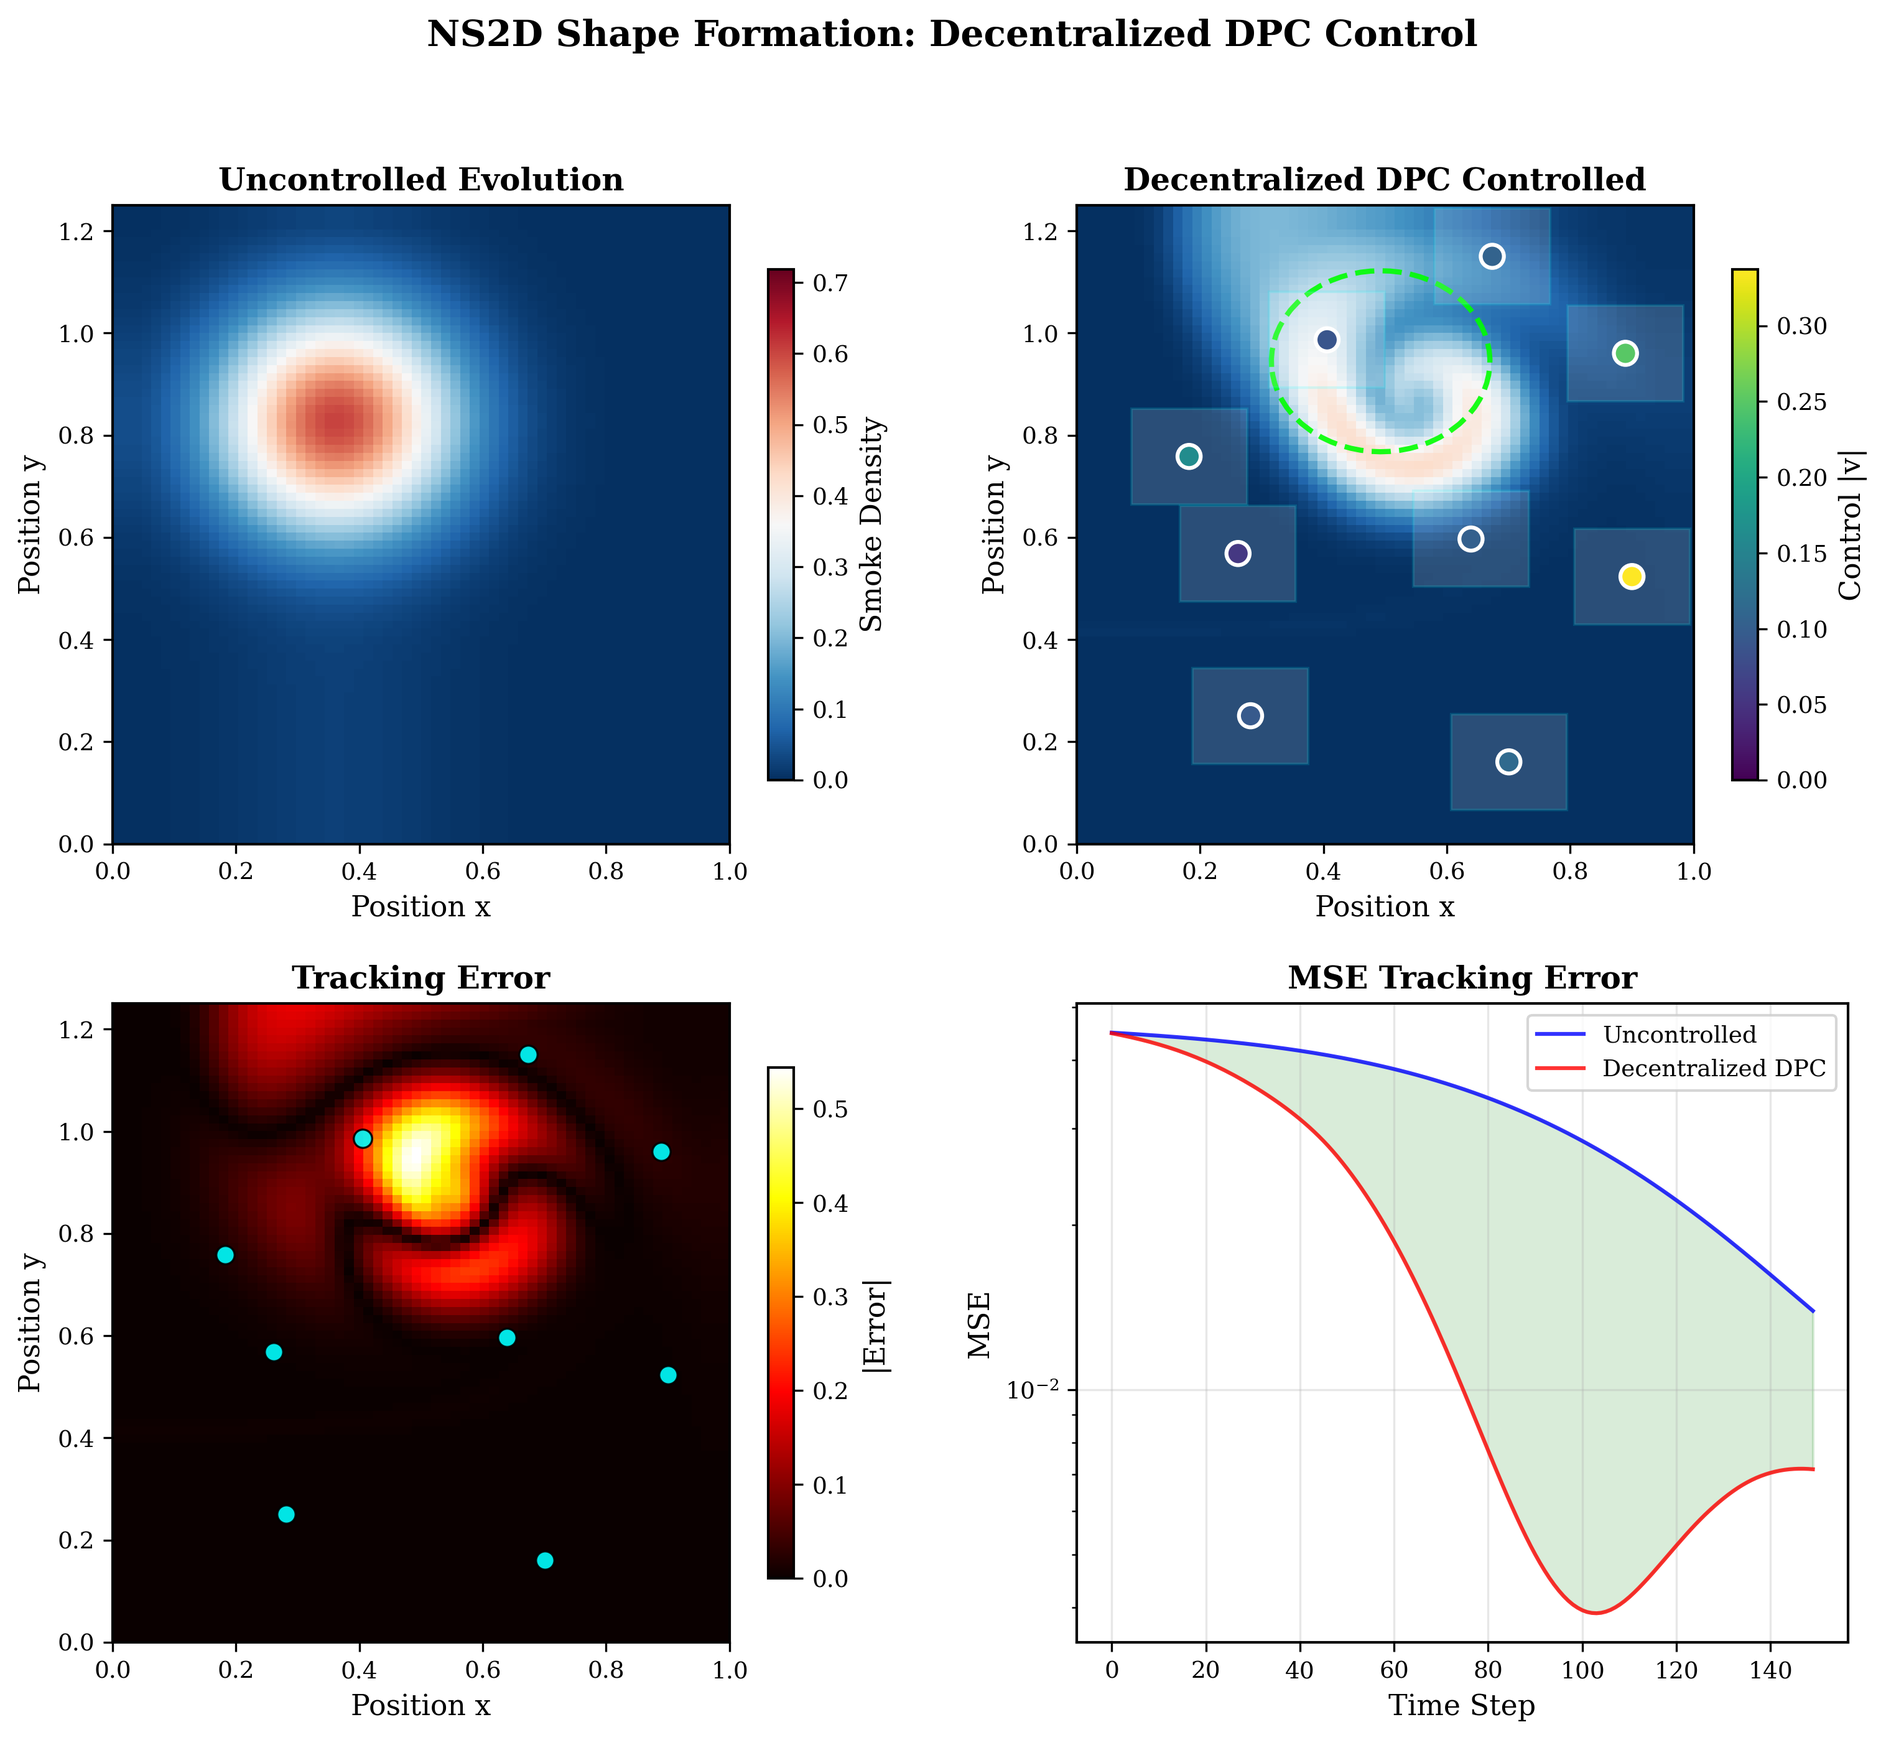
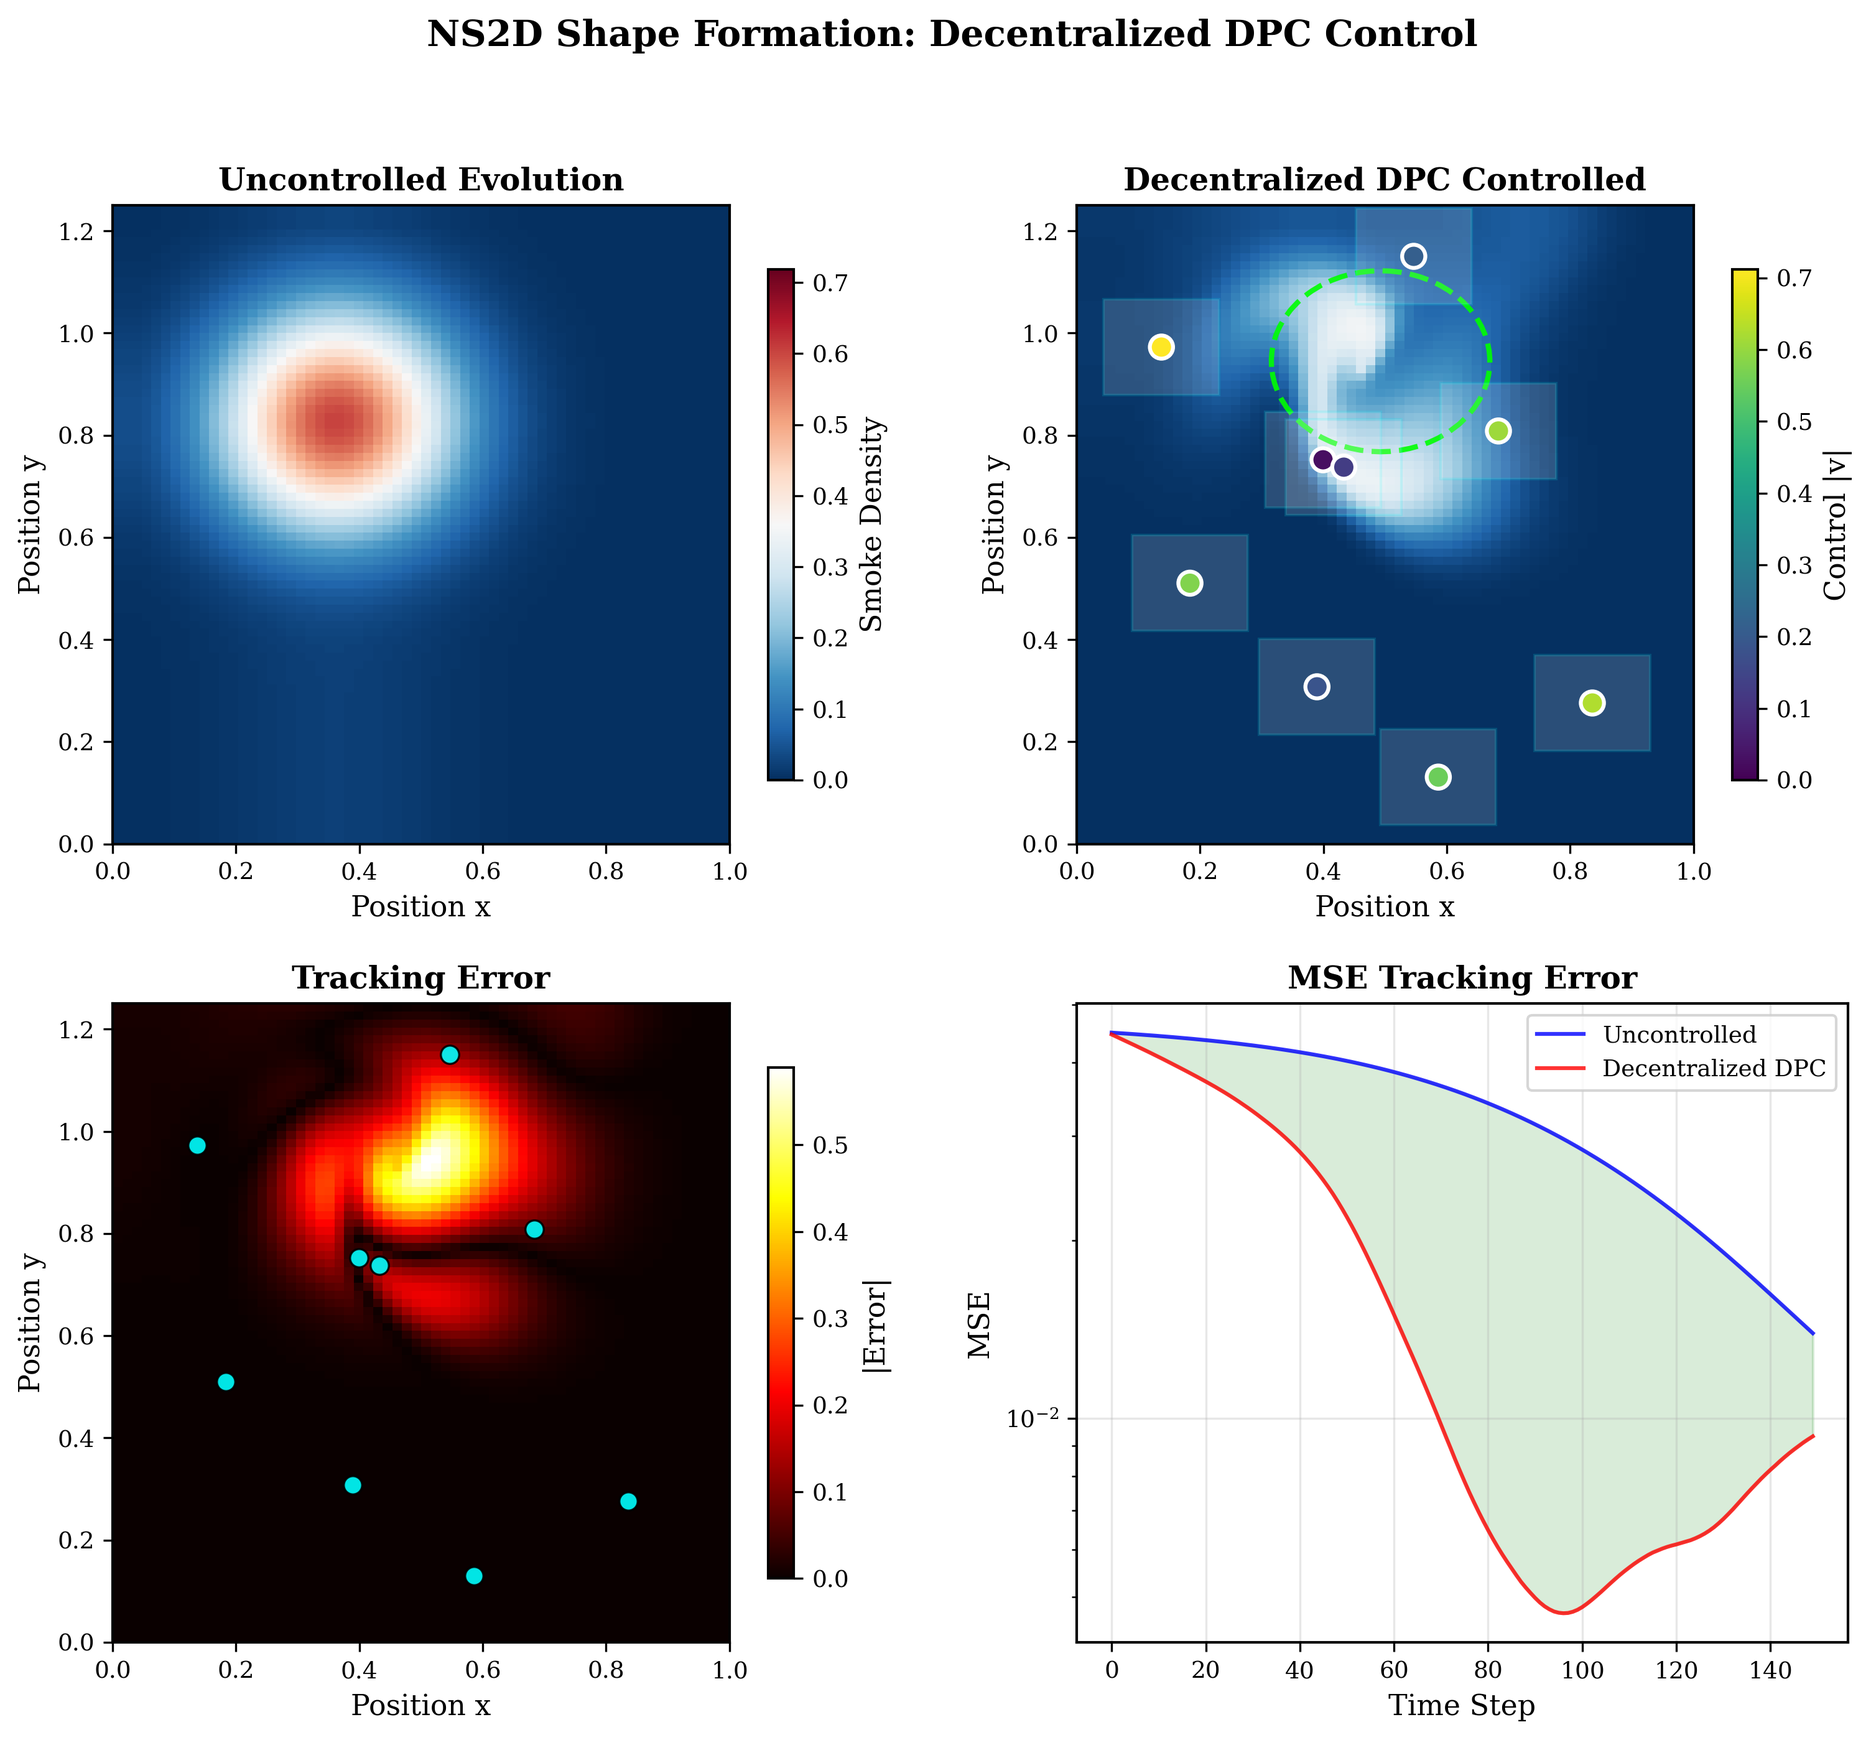
Update ns2d decentralized: dynamics, training, visualization

diff --git a/examples/ns2d/decentralized/dynamics.py b/examples/ns2d/decentralized/dynamics.py
@@ -325,7 +325,7 @@ def unroll_with_full_loss(
     push_max: float = 0.5,    # Max push velocity
     R_safe: float = 0.12,
     domain_margin: float = 0.1
-) -> Tuple[jnp.ndarray, jnp.ndarray, float, float, float, float, float]:
+) -> Tuple[jnp.ndarray, jnp.ndarray, float, float, float, float, float, float]:
     """
     Controlled rollout with fan-only velocity control.
     
@@ -333,7 +333,7 @@ def unroll_with_full_loss(
     - push_velocity: direction to push smoke AND slow agent drift
     
     Returns:
-        smoke_final, xi_final, l_track, l_effort, l_bound, l_coll, l_accel
+        smoke_final, xi_final, l_hold, l_coll, l_bound, l_smooth, l_effort, l_mass
     """
     
     def step_fn(carry, _):
@@ -368,122 +368,51 @@ def unroll_with_full_loss(
     smoke_traj, xi_traj, v_traj = trajectories
     
     # =========================================================================
-    # NEW OBJECTIVE DESIGN: Transport + Hold + Find + Regularization
-    # =========================================================================
-    
-    # Helper: Compute centroid of a field
-    def compute_centroid(field):
-        Nx_f, Ny_f = field.shape
-        x_coords = jnp.linspace(0, 1, Nx_f)
-        y_coords = jnp.linspace(0, 1.25, Ny_f)
-        X, Y = jnp.meshgrid(x_coords, y_coords, indexing='ij')
-        total_mass = jnp.sum(field) + 1e-8
-        cx = jnp.sum(field * X) / total_mass
-        cy = jnp.sum(field * Y) / total_mass
-        return jnp.array([cx, cy])
-    
-    # Target centroid (fixed)
-    target_centroid = compute_centroid(rho_target)
-    
-    # =========================================================================
-    # 1. TRANSPORT LOSS: Push smoke centroid → target centroid
-    # =========================================================================
-    def transport_loss_at_t(smoke_t):
-        smoke_centroid = compute_centroid(smoke_t)
-        return jnp.sum((smoke_centroid - target_centroid) ** 2)
-    
-    transport_losses = jax.vmap(transport_loss_at_t)(smoke_traj)
-    l_transport = jnp.mean(transport_losses)
-    
-    # =========================================================================
-    # 2. TIME-WEIGHTED HOLD LOSS using WASSERSTEIN DISTANCE
+    # HOLD LOSS: Time-weighted Wasserstein distance to target
+    # Exponentially increasing weights: later timesteps matter MORE (hold behavior)
     # =========================================================================
     def hold_loss_at_t(smoke_t):
         return compute_wasserstein_loss(smoke_t, rho_target)
     
     hold_losses = jax.vmap(hold_loss_at_t)(smoke_traj)
     
-    # Time weights: [0.5, 0.6, ..., 1.5, 2.0, 2.5] - increasing over time
-    # time_weights = 0.5 + 2.0 * jnp.linspace(0, 1, t_steps)  # Linear increase
-    # time_weights = 1.0
+    # Time weights: (t/T)^2 - quadratic increase, emphasizing later timesteps
+    # At t=0: weight=0, at t=T: weight=1 -> forces holding at end
+    # t_normalized = jnp.linspace(0, 1, t_steps)
+    # time_weights = 0.5 + 1.5 * (t_normalized ** 2)  # Range: 0.5 to 2.0
     time_weights = jnp.ones(t_steps)
     l_hold = jnp.sum(hold_losses * time_weights) / jnp.sum(time_weights)
     
-    # Also add strong terminal penalty (Wasserstein)
+    # Strong terminal penalty (Wasserstein) - smoke MUST stay at target
     l_hold_terminal = compute_wasserstein_loss(smoke_final, rho_target)
-    l_hold = l_hold + 3.0 * l_hold_terminal  # Extra emphasis on final state
-    
-    # =========================================================================
-    # 3. FIND LOSS: Agents should approach smoke to push it
-    # =========================================================================
-    def find_loss_at_t(smoke_t, xi_t):
-        smoke_centroid = compute_centroid(smoke_t)
-        dist_to_smoke = jnp.sqrt(jnp.sum((xi_t - smoke_centroid) ** 2, axis=-1) + 1e-8)
-        return jnp.mean(jnp.minimum(dist_to_smoke, 0.4))
-    
-    find_losses = jax.vmap(find_loss_at_t)(smoke_traj, xi_traj)
-    l_find = jnp.mean(find_losses)
-    
-    # =========================================================================
-    # 4. SURROUND LOSS: Agents should be near TARGET to form containment ring
-    # =========================================================================
-    def surround_loss_at_t(xi_t):
-        # Distance from each agent to TARGET centroid (not smoke!)
-        dist_to_target = jnp.sqrt(jnp.sum((xi_t - target_centroid) ** 2, axis=-1) + 1e-8)
-        # Ideal distance: ~0.2-0.3 (ring around target, not on top of it)
-        ideal_dist = 0.25
-        return jnp.mean(jnp.abs(dist_to_target - ideal_dist))  # Encourage ring formation
-    
-    surround_losses = jax.vmap(surround_loss_at_t)(xi_traj)
-    l_surround = jnp.mean(surround_losses)
-    
-    # =========================================================================
-    # 5. BRAKE LOSS: Slow down when smoke is at target (increased threshold)
-    # =========================================================================
-    def brake_loss_at_t(smoke_t, v_t):
-        smoke_centroid = compute_centroid(smoke_t)
-        smoke_target_dist = jnp.sqrt(jnp.sum((smoke_centroid - target_centroid) ** 2) + 1e-8)
-        
-        # Brake factor: 1.0 when at target, 0.0 when far
-        # INCREASED threshold from 0.15 to 0.3
-        at_target = jnp.clip(1.0 - smoke_target_dist / 0.3, 0.0, 1.0)
-        
-        # Penalize velocity when at target
-        velocity_mag = jnp.mean(jnp.sum(v_t ** 2, axis=-1))
-        return at_target * velocity_mag
-    
-    brake_losses = jax.vmap(brake_loss_at_t)(smoke_traj, v_traj)
-    l_brake = jnp.mean(brake_losses)
+    l_hold = l_hold + 2.0 * l_hold_terminal  #2 #8 # Strong emphasis on final state
     
     # =========================================================================
     # REGULARIZATION LOSSES
     # =========================================================================
     
-    # 6. COLLISION: Avoid other agents (SOFT EXPONENTIAL - always has gradient)
+    # COLLISION: Avoid other agents (soft exponential penalty)
     diff = xi_traj[:, :, None, :] - xi_traj[:, None, :, :]
     dists = jnp.sqrt(jnp.sum(diff**2, axis=-1) + 1e-8)
     mask = jnp.eye(n_agents)[None, :, :]
     dists_masked = dists + mask * 10.0  # Ignore self-distance
-    
-    # Exponential decay: strong when close, weak when far
-    # exp(-dist/scale) where scale controls the range of influence
-    scale = R_safe  # Use R_safe as scale parameter
+    scale = R_safe
     l_coll = jnp.mean(jnp.exp(-dists_masked / scale))
     
-    # 7. BOUNDARY: Stay in domain
+    # BOUNDARY: Stay in domain
     x_penalty = jnp.maximum(0, domain_margin - xi_traj[:, :, 0])**2 + \
                 jnp.maximum(0, xi_traj[:, :, 0] - (1.0 - domain_margin))**2
     y_penalty = jnp.maximum(0, domain_margin - xi_traj[:, :, 1])**2 + \
                 jnp.maximum(0, xi_traj[:, :, 1] - (1.25 - domain_margin))**2
     l_bound = jnp.mean(x_penalty + y_penalty)
     
-    # 8. SMOOTH: Velocity smoothness (acceleration penalty)
+    # SMOOTH: Velocity smoothness (acceleration penalty)
     l_smooth = jnp.mean(jnp.sum(jnp.diff(v_traj, axis=0)**2, axis=-1))
     
-    # 9. EFFORT: Control energy
+    # EFFORT: Control energy
     l_effort = jnp.mean(jnp.sum(v_traj ** 2, axis=-1))
     
-    # 10. MASS CONSERVATION: Penalize loss of smoke mass
+    # MASS CONSERVATION: Penalize loss of smoke mass
     initial_mass = jnp.sum(smoke_init)
     def mass_loss_at_t(smoke_t):
         current_mass = jnp.sum(smoke_t)
@@ -492,7 +421,7 @@ def unroll_with_full_loss(
     mass_losses = jax.vmap(mass_loss_at_t)(smoke_traj)
     l_mass = jnp.mean(mass_losses)
     
-    return smoke_final, xi_final, l_transport, l_hold, l_find, l_surround, l_brake, l_coll, l_bound, l_smooth, l_effort, l_mass
+    return smoke_final, xi_final, l_hold, l_coll, l_bound, l_smooth, l_effort, l_mass
 
 
 

diff --git a/examples/ns2d/decentralized/train.py b/examples/ns2d/decentralized/train.py
@@ -48,32 +48,16 @@ SIGMA_PUSH = 0.2      # Wide push influence
 
 # Control limits (fan-only: no injection, just push velocity)
 PUSH_MAX = 0.8        # Max push velocity
-FEATURES = (16, 32)   # CNN feature channels - keep same
+FEATURES = (32, 32, 64)  #(32, 32, 64)# CNN feature channels - keep same
 PATCH_SIZE = 12      
 
-# Loss weights - NEW OBJECTIVE DESIGN
-# W_TRANSPORT = 10.0   #20# PRIMARY: push smoke centroid → target centroid
-# W_HOLD = 50.0         #10# TERMINAL: smoke must stay at target (time-weighted)
-# W_FIND = 10.0         # EXPLORATION: agents approach smoke
-# W_SURROUND = 10.0     #15# Agents form ring around target
-# W_BRAKE = 40.0        # Slow down when at target
-# W_COLL = 1500.0        # Avoid other agents
-# W_BOUND = 20.0        # Stay in domain
-# W_SMOOTH = 0.1        # Velocity smoothness
-# W_EFFORT = 0.001      # Control energy
-# W_MASS = 80.0         #50# NEW: Preserve smoke mass
-# R_SAFE = 0.15         # Safe radius for collision
-
-W_TRANSPORT = 0.0   #20# PRIMARY: push smoke centroid → target centroid
-W_HOLD = 10.0 #0.3        #10# TERMINAL: smoke must stay at target (time-weighted)
-W_FIND = 0.0         # EXPLORATION: agents approach smoke
-W_SURROUND = 0.0     #15# Agents form ring around target
-W_BRAKE = 0.0        # Slow down when at target
-W_COLL = 70.0        # Avoid other agents
+# Loss weights
+W_HOLD = 3.0      #3   # TERMINAL: smoke must stay at target (time-weighted Wasserstein)
+W_COLL = 10.0         # Avoid other agents
 W_BOUND = 10.0        # Stay in domain
 W_SMOOTH = 0.1        # Velocity smoothness
 W_EFFORT = 0.001      # Control energy
-W_MASS = 30.0         #50# NEW: Preserve smoke mass
+W_MASS = 5.0        #5 # Preserve smoke mass #30
 R_SAFE = 0.15         # Safe radius for collision
 
 
@@ -146,17 +130,16 @@ def main():
     
     # Loss function - with mass conservation
     def loss_fn(params, smoke_init, xi_init, rho_target):
-        smoke_final, xi_final, l_transport, l_hold, l_find, l_surround, l_brake, l_coll, l_bound, l_smooth, l_effort, l_mass = unroll_with_full_loss(
+        smoke_final, xi_final, l_hold, l_coll, l_bound, l_smooth, l_effort, l_mass = unroll_with_full_loss(
             smoke_init, xi_init, rho_target, params, model.apply, T_steps,
             Nx=Nx, Ny=Ny, n_agents=n_agents, dt=dt, buoyancy=buoyancy,
             sigma_push=sigma_push, push_max=push_max, R_safe=R_SAFE
         )
         
-        total_loss = W_TRANSPORT * l_transport + W_HOLD * l_hold + W_FIND * l_find + \
-                     W_SURROUND * l_surround + W_BRAKE * l_brake + W_MASS * l_mass + \
+        total_loss = W_HOLD * l_hold + W_MASS * l_mass + \
                      W_COLL * l_coll + W_BOUND * l_bound + W_SMOOTH * l_smooth + W_EFFORT * l_effort
         
-        return total_loss, (l_transport, l_hold, l_find, l_surround, l_brake, l_coll, l_bound, l_smooth, l_effort, l_mass)
+        return total_loss, (l_hold, l_coll, l_bound, l_smooth, l_effort, l_mass)
     
     batched_loss_fn = jax.vmap(loss_fn, in_axes=(None, 0, 0, 0))
     
@@ -197,15 +180,13 @@ def main():
         )
         
         if epoch % 10 == 0:
-            l_transport, l_hold, l_find, l_surround, l_brake, l_coll, l_bound, l_smooth, l_effort, l_mass = aux
-            metrics.append((epoch, float(loss), float(l_transport), float(l_hold), float(l_find), 
-                          float(l_surround), float(l_brake), float(l_coll), float(l_bound), 
+            l_hold, l_coll, l_bound, l_smooth, l_effort, l_mass = aux
+            metrics.append((epoch, float(loss), float(l_hold), float(l_coll), float(l_bound), 
                           float(l_smooth), float(l_effort), float(l_mass)))
             
             if epoch % 50 == 0:
-                tqdm.write(f"Ep {epoch:4d} | Loss: {loss:.3f} | Trans: {l_transport:.4f} | Hold: {l_hold:.4f} | Find: {l_find:.4f}")
-                tqdm.write(f"         | Surr: {l_surround:.4f} | Brake: {l_brake:.4f} | Coll: {l_coll:.6f} | Bound: {l_bound:.6f}")
-                tqdm.write(f"         | Smooth: {l_smooth:.6f} | Effort: {l_effort:.6f} | Mass: {l_mass:.4f}")
+                tqdm.write(f"Ep {epoch:4d} | Loss: {loss:.3f} | Hold: {l_hold:.4f} | Mass: {l_mass:.4f}")
+                tqdm.write(f"         | Coll: {l_coll:.6f} | Bound: {l_bound:.6f} | Smooth: {l_smooth:.6f} | Effort: {l_effort:.6f}")
     
     elapsed = time.time() - start_time
     print(f"\nTraining completed in {elapsed:.1f}s")

diff --git a/examples/ns2d/decentralized/visualize.py b/examples/ns2d/decentralized/visualize.py
@@ -195,13 +195,35 @@ def create_animation(
     if output_gif:
         print(f"  Saving GIF: {output_gif}")
         anim.save(output_gif, writer='pillow', fps=fps)
+        print(f"  ✓ GIF saved")
     
+    # Save MP4 (try multiple writers)
     if output_mp4:
         print(f"  Saving MP4: {output_mp4}")
-        try:
-            anim.save(output_mp4, writer='ffmpeg', fps=fps)
-        except Exception:
-            pass
+        saved = False
+        for writer_name in ['ffmpeg', 'imagemagick']:
+            try:
+                anim.save(output_mp4, writer=writer_name, fps=fps)
+                print(f"  ✓ MP4 saved (using {writer_name})")
+                saved = True
+                break
+            except Exception:
+                continue
+        if not saved:
+            # Fallback: save frames manually using imageio
+            try:
+                import imageio
+                frames = []
+                for i in range(len(frame_indices)):
+                    animate(i)
+                    fig.canvas.draw()
+                    img = np.frombuffer(fig.canvas.tostring_rgb(), dtype=np.uint8)
+                    img = img.reshape(fig.canvas.get_width_height()[::-1] + (3,))
+                    frames.append(img)
+                imageio.mimsave(output_mp4, frames, fps=fps)
+                print(f"  ✓ MP4 saved (using imageio)")
+            except Exception as e:
+                print(f"  ✗ MP4 failed: {e}")
     
     plt.close()
 
@@ -363,6 +385,8 @@ def main():
     
     # Process 2 samples
     n_samples = min(2, len(test_data['rho_init']))
+    # n_samples = min(1, len(test_data['rho_init']))
+
     
     for sample_idx in range(n_samples):
         print(f"\n{'='*60}")
@@ -420,6 +444,11 @@ def main():
     print("\n" + "="*60)
     print("Visualization Complete!")
     print("="*60)
+    print("\nGenerated files:")
+    for i in range(n_samples):
+        print(f"  - ns2d_decentralized_sample_{i+1}.png")
+        print(f"  - ns2d_decentralized_{i+1}.gif")
+        print(f"  - ns2d_decentralized_{i+1}.mp4")
 
 
 if __name__ == "__main__":
